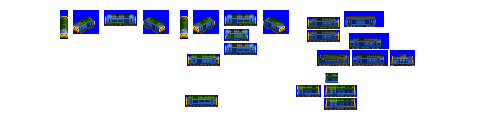
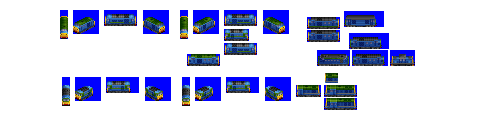
Change: introduce Centaur heavy freight engine, and adjust other engines in freight tech tree to suit

Changed region(s): [[0.12, 0.625, 0.6, 0.9]]

diff --git a/src/vehicles/centaur.py b/src/vehicles/centaur.py
@@ -1,0 +1,22 @@
+from train import EngineConsist, DieselEngineUnit
+
+
+def main(roster):
+    consist = EngineConsist(roster=roster,
+                            id='centaur',
+                            base_numeric_id=3350,
+                            name='Centaur',
+                            role='heavy_freight_1',
+                            power=3300,
+                            joker=True,  # this engine doesn't fit the intro date pattern  by design
+                            random_reverse=True,
+                            intro_date_offset=-7,  # let's be a little bit earlier for this one
+                            gen=5,
+                            sprites_complete=False)
+
+    consist.add_unit(type=DieselEngineUnit,
+                     weight=120,
+                     vehicle_length=8,
+                     spriterow_num=0)
+
+    return consist

diff --git a/src/train.py b/src/train.py
@@ -230,7 +230,7 @@ class Consist(object):
         role_to_role_groups_mapping = {'express_core': ['express_1', 'heavy_express_1'],
                                        'express_non_core': ['branch_express', 'express_2', 'heavy_express_2', 'heavy_express_3'],
                                        'freight_core': ['freight_1', 'heavy_freight_1',],
-                                       'freight_non_core': ['branch_freight', 'freight_2', 'heavy_freight_2'],
+                                       'freight_non_core': ['branch_freight', 'freight_2', 'heavy_freight_2', 'heavy_freight_3'],
                                        'metro': ['mail_metro', 'pax_metro'],
                                        'railcar': ['mail_railcar_1', 'mail_railcar_2', 'pax_railcar_1', 'pax_railcar_2'],
                                        'high_speed': ['pax_high_speed'],

diff --git a/src/vehicles/cheddar_valley.py b/src/vehicles/cheddar_valley.py
@@ -6,11 +6,12 @@ def main(roster):
                             id='cheddar_valley',
                             base_numeric_id=220,
                             name='Cheddar Valley',
-                            role='heavy_freight_1',
-                            power=3600,
+                            role='heavy_freight_3',
+                            power=4000,
                             # dibble for game balance, assume super-slip control
                             tractive_effort_coefficient=0.4,
                             random_reverse=True,
+                            intro_date_offset=5,  # let's be a little bit later for this one
                             gen=5,
                             sprites_complete=True)
 

diff --git a/src/global_constants.py b/src/global_constants.py
@@ -60,7 +60,7 @@ PR_RUNNING_TRAIN_DIESEL = -4
 
 # generalised mapping of roles to groups
 role_group_mapping = {'express': ['branch_express', 'express_1', 'express_2', 'heavy_express_1', 'heavy_express_2', 'heavy_express_3'],
-                      'freight': ['branch_freight', 'freight_1', 'freight_2', 'heavy_freight_1', 'heavy_freight_2'],
+                      'freight': ['branch_freight', 'freight_1', 'freight_2', 'heavy_freight_1', 'heavy_freight_2', 'heavy_freight_3'],
                       'high_speed': ['pax_high_speed'],
                       'metro': ['mail_metro', 'pax_metro'],
                       'universal': ['universal', 'mail_railcar_1', 'mail_railcar_2', 'pax_railcar_1', 'pax_railcar_2']}

diff --git a/src/rosters/pony.py b/src/rosters/pony.py
@@ -10,6 +10,7 @@ from vehicles import breeze
 from vehicles import brenner_cab
 from vehicles import brenner_middle
 from vehicles import carrack
+from vehicles import centaur
 from vehicles import cheddar_valley
 from vehicles import cheese_bug
 from vehicles import chimera
@@ -144,6 +145,7 @@ roster = Roster(id = 'pony',
                            girt_licker,
                            lemon,
                            chinook,
+                           centaur,
                            cheddar_valley,
                            chimera,
                            flindermouse,

diff --git a/src/vehicles/chimera.py b/src/vehicles/chimera.py
@@ -6,8 +6,8 @@ def main(roster):
                             id='chimera',
                             base_numeric_id=990,
                             name='Chimera',
-                            role='heavy_freight_1',
-                            power=4200,
+                            role='heavy_freight_3',
+                            power=4800,
                             # dibble for game balance, assume super-slip control
                             tractive_effort_coefficient=0.4,
                             random_reverse=True,

diff --git a/src/vehicles/blaze.py b/src/vehicles/blaze.py
@@ -16,7 +16,7 @@ def main(roster):
                             power=5000,
                             joker=True,  # this engine doesn't fit the set roster pattern, by design it's to mix things up
                             dual_headed=True,
-                            intro_date_offset=-12,  # let's be a little bit earlier for this one
+                            intro_date_offset=-10,  # let's be a little bit earlier for this one
                             gen=5,
                             sprites_complete=False)
 

diff --git a/src/vehicles/scorcher.py b/src/vehicles/scorcher.py
@@ -10,7 +10,7 @@ def main(roster):
                             power=6000,
                             joker=True,  # this engine doesn't fit the set roster pattern, by design it's to mix things up
                             dual_headed=True,
-                            intro_date_offset=-12,  # let's be a little bit earlier for this one
+                            intro_date_offset=-10,  # let's be a little bit earlier for this one
                             gen=6,
                             sprites_complete=False)
 

diff --git a/src/vehicles/chinook.py b/src/vehicles/chinook.py
@@ -7,7 +7,7 @@ def main(roster):
                             base_numeric_id=120,
                             name='Chinook',
                             role='heavy_freight_1',
-                            power=3000,
+                            power=2900,
                             gen=4,
                             sprites_complete=True)
 
